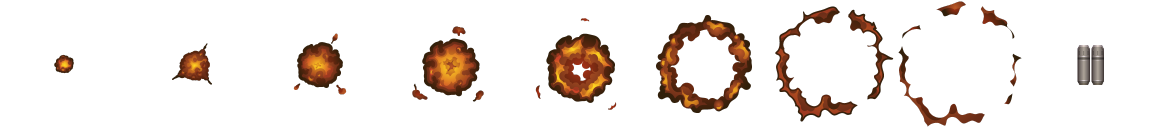
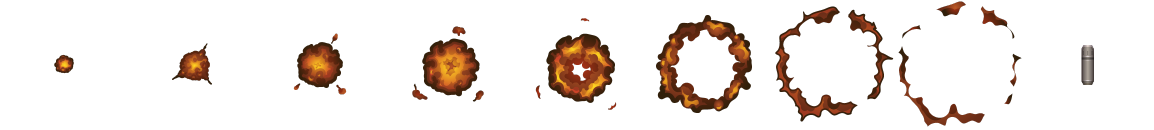
cleaned code a bit and configuered all Bullet Types, removed Flamethrow (changing to particles), next steps: Add Laser, Shotgun and Flamethrower + Clean Code

Changed region(s): [[0.9359, 0.3385, 0.9671, 0.6769]]

diff --git a/public/game/game.js b/public/game/game.js
@@ -36,15 +36,13 @@ function preload (){
 	this.load.spritesheet("Bullet-Mid", "Effects/Bullet-Mid.png", { frameWidth: 128, frameHeight: 128});
 	this.load.spritesheet("Bullet-Big", "Effects/Bullet-Big.png", { frameWidth: 128, frameHeight: 128});
 	this.load.spritesheet("Bullet-Small", "Effects/Bullet-Small.png", { frameWidth: 128, frameHeight: 128});
-	this.load.spritesheet("Double-Bullet", "Effects/Double.png", { frameWidth: 128, frameHeight: 128});
-	this.load.spritesheet("Sniper-Bullet", "Effects/Sniper-Bullet.png", { frameWidth: 128, frameHeight: 128});
-	this.load.spritesheet("Shotgun", "Effects/Shotgun.png", { frameWidth: 128, frameHeight: 128});
+	this.load.spritesheet("Bullet-Double", "Effects/Double.png", { frameWidth: 128, frameHeight: 128});
+	this.load.spritesheet("Bullet-Sniper", "Effects/Sniper.png", { frameWidth: 128, frameHeight: 128});
+	this.load.spritesheet("Bullet-Shotgun", "Effects/Shotgun.png", { frameWidth: 128, frameHeight: 128});
 	this.load.spritesheet("Laser", "Effects/Laser.png", { frameWidth: 128, frameHeight: 128});
-	this.load.spritesheet("Sniper-Bullet", "Effects/Sniper.png", { frameWidth: 128, frameHeight: 128});
 	this.load.spritesheet("Flamethrower", "Effects/Flames.png", { frameWidth: 256, frameHeight: 256});
 	
 	
-
 	this.load.spritesheet("Track_1_A", "Tracks/Track_1_A.png", { frameWidth: 42, frameHeight: 246 });
 	this.load.image("tiles", "tilesExtruded.png")
 	this.load.tilemapTiledJSON("map", "panzerkiste.json");
@@ -55,79 +53,44 @@ function preload (){
 }
 
 function create (){
+	size = (64/256);
+
 	map = this.make.tilemap({key:"map", tileWidth: 32, tileHeight: 32});
 	tileset = map.addTilesetImage("tiles1", "tiles", 32, 32, 1, 2);
 	level = map.createLayer("level", tileset, 0, 0);
 	map.setCollisionByProperty({ collision: true });
-
 	shapes = this.cache.json.get('shapes');
 	addBorders(this);
-	
 
 	pointer = this.input.activePointer;
 	cursors = this.input.keyboard.createCursorKeys();
 	keys = this.input.keyboard.addKeys({ w: 87, a: 65, s: 83 ,d: 68, space: 32, one: 49, two:50, three:51, four:52, five:53, six:54, seven:55, eight:56});
-	size = (64/256);
 
 	projectiles = new Array();
 	counter = 0;
 
-	projectilesBots = new Array();
-	counterBots = new Array();
-
 	tank = new Tank(this, 1000, 400, size, "A", "player");
 	tanks = [new Tank(this, 300, 800, size, "B", "bot1"), new Tank(this, 200, 200, size, "C", "bot2"), new Tank(this, 1500, 1000, size, "D", "bot3")];
-	tanks.forEach(tank => {
-		projectilesBots.push(new Array());
-		counterBots.push(0);
-	})
 
 	this.cameras.main.setBounds(0, 0, map.widthInPixels, map.heightInPixels);
 	this.cameras.main.startFollow(tank);
 	this.cameras.main.zoom = calculateScale(this.sys.game.canvas.height, this.sys.game.canvas.width)*1.5;
-
 }
 
 function update (){
-	if(keys.one.isDown){
-		tank.upgrade(1);
-	} else if(keys.two.isDown){
-		tank.upgrade(2);
-	} else if(keys.three.isDown){
-		tank.upgrade(3);
-	} else if(keys.four.isDown){
-		tank.upgrade(4);
-	} else if(keys.five.isDown){
-		tank.upgrade(5);
-	} else if(keys.six.isDown){
-		tank.upgrade(6);
-	} else if(keys.seven.isDown){
-		tank.upgrade(7);
-	} else if(keys.eight.isDown){
-		tank.upgrade(8);
-		projectiles = [];
-		counter = 0;
-	}
-
-	//player gets updated and player controls are being handled here
-	tankControls(this)
+	upgradeTank();
+	tankControls();
+	shooting(this);
 	tank.update();
 	tank.updateGunAngle(true);
 	
-
 	tanks.forEach( bot => {
 		bot.update();
 		bot.updateGunAngle(false, {x: tank.x, y: tank.y});
 	})
-
-	if(tank.type === 7 && projectiles.length !== 0){
-		projectiles[0].x = tank.getFrontOfGun(1.9).x;
-		projectiles[0].y = tank.getFrontOfGun(1.9).y;
-		projectiles[0].angle = tank.gun.angle;
-	}
 }
 
-function tankControls(game){
+function tankControls(){
 	if ((cursors.left.isDown || keys.a.isDown)&&!(cursors.right.isDown || keys.d.isDown)){
 		if((cursors.down.isDown || keys.s.isDown)&&!(cursors.up.isDown || keys.w.isDown)){
 			tank.rotateRight();
@@ -145,30 +108,31 @@ function tankControls(game){
 	} if ((cursors.down.isDown || keys.s.isDown)&&!(cursors.up.isDown || keys.w.isDown)){
 		tank.moveBackward();
 	}
-	if (tank.type === 0 || tank.type === 1 || tank.type === 2 || tank.type === 4){
-		if ((keys.space.isDown || pointer.isDown) && tank.framecount >= 24 && projectiles.length < 5 && !tank.destroyed){
-			projectiles.push(new Projectile(game, tank.getFrontOfGun().x, tank.getFrontOfGun().y, tank.gun.angle, size, `projectile_${counter}`, this.tank.type, ));
+}
+
+function shooting(game){
+	let number = [5, 1, 7, 4, 0, 10];
+	let framecount = [24, 72, 24, 24, 0, 24];
+	if ((keys.space.isDown || pointer.isDown) && tank.framecount >= framecount[tank.type] && projectiles.length < number[tank.type] && !tank.destroyed){
+		if (tank.type === 0 || tank.type === 1 || tank.type === 2 || tank.type === 3){
+			projectiles.push(new Projectile(game, tank.getFrontOfGun().x, tank.getFrontOfGun().y, tank.gun.angle, size, `projectile_${counter}`, tank.type));
 			counter++;
 			tank.framecount = 0;
-		}
-	} else if (tank.type === 3){
-
-	} else if (tank.type === 5){
-
-	} else if (tank.type === 6){
-
-	} else if (tank.type === 7){
-		if ((keys.space.isDown || pointer.isDown) && !tank.destroyed){
-			if (projectiles.length === 0){
-				projectiles.push(new Projectile(game, tank.getFrontOfGun(1.9).x, tank.getFrontOfGun(1.9).y, tank.gun.angle, size, `projectile_${counter}`, this.tank.type, 1));
-				console.log(projectiles)
+		} else if (tank.type === 4){
+	
+		} else if (tank.type === 5){
+			for (i = -1; i < 2; i+=2){
+				projectiles.push(new Projectile(game, tank.getFrontOfGun(1,i*5).x, tank.getFrontOfGun(1,i*5).y, tank.gun.angle+i*3, size, `projectile_${counter}`, tank.type));
+				counter++;
 			}
-		} else {
-			if (projectiles.length !== 0){
-				projectiles[0].destroy();
-			}
+			tank.framecount = 0;
+		} else if (tank.type === 6){
+	
+		} else if (tank.type === 7){
+	
 		}
 	}
+
 	for (i = 0; i < projectiles.length; i++){
 		if(!projectiles[i].active){
 			projectiles.splice(i,1);
@@ -197,4 +161,24 @@ function addBorders(game){
 	}
 	border = game.matter.add.sprite(963, 610, "transparent", 0, {shape: shapesResized.level});
 	border.setStatic(true);
+}
+
+function upgradeTank(){
+	if(keys.one.isDown){
+		tank.upgrade(1);
+	} else if(keys.two.isDown){
+		tank.upgrade(2);
+	} else if(keys.three.isDown){
+		tank.upgrade(3);
+	} else if(keys.four.isDown){
+		tank.upgrade(4);
+	} else if(keys.five.isDown){
+		tank.upgrade(5);
+	} else if(keys.six.isDown){
+		tank.upgrade(6);
+	} else if(keys.seven.isDown){
+		tank.upgrade(7);
+	} else if(keys.eight.isDown){
+		tank.upgrade(8);
+	}
 }

diff --git a/public/game/objects/projectile.js b/public/game/objects/projectile.js
@@ -1,70 +1,31 @@
 class Projectile extends Phaser.Physics.Matter.Sprite {
-    constructor(game, x, y, angle, size, label, type, group=0) {
-        let images = ["Bullet-Mid", "Sniper-Bullet", "Bullet-Big", "Bullet-Small", "Double-Bullet", "Shotgun", "Laser", "Flamethrower"];
-        super(game.matter.world, x, y, images[type], 0, {scale: {x:1, y: 1}, collisionFilter: {group: group}});
-        game.add.existing(this);
-        if(type === 0 || type === 1 || type === 2 || type === 4){
-            this.explosion = this.anims.create({key:"explosion", frames: this.anims.generateFrameNumbers(images[type], {start:0, end: 7}), frameRate:24, repeat: 0});
-            this.setFrame(8);
-            this.setBody({type:"rectangle", width: 15, height:28}, {label: label, chamfer: {radius: [5, 5, 5, 5] } });
-            this.bounces = 0;
-            this.setOrigin(0.5, 0.5);
-            this.angle = angle;
-            this.setScale(size*1.6, size*1.6);
-            this.setVelocityX(Math.sin(this.angle*Math.PI/180)*size*15);
-            this.setVelocityY(-Math.cos(this.angle*Math.PI/180)*size*15);
-            this.setFrictionAir(0);
-            this.setBounce(1);
-            this.setFixedRotation();
-            this.bulletCollision(this);
-        } else if(type === 3){
-
-        } else if(type === 5){
-
-        } else if(type === 6){
-
-        } else if(type === 7){
-            console.log("hello")
-            this.setBody({type:"rectangle", width: 25, height:200}, {label: label, chamfer: {radius: [15, 15, 15, 15] } });
-            this.setOrigin(0.5, 0.5);
-            this.angle = angle;
-            this.setScale(size*1.6, size*1.6);
-            this.fire = this.anims.create({key:"fire", frames: this.anims.generateFrameNumbers(images[type], {start:0, end: 7}), frameRate:24, repeat: 0});
-            this.fireHold = this.anims.create({key:"fireHold", frames: this.anims.generateFrameNumbers(images[type], {start:3, end: 7}), frameRate:24, repeat: -1});
-            this.play("fire");
-            window.setTimeout(() => {
-                this.play("fireHold");
-            },334)
-            this.destroyed = false;
-           
-        }
-    }
-
-    fire(){
-
-        clearTimeout(this.destroyTimeout);
-
-        this.body.reset(x, y);
+    constructor(game, x, y, angle, size, label, type) {
+        let tankTypeData = [{bounces: 2, velocity: 1, damage: 1, number:1, width:15, height:28, chamfer: [5,5,5,5]},
+            {bounces: 0, velocity: 2.5, damage: 2, width:15, height:48, chamfer:[5,5,5,5]},
+            {bounces: 5, velocity: 1, damage: 2, width:25, height:48, chamfer:[8,8,8,8]},
+            {bounces: 2, velocity: 1, damage: 1, width:10, height:18, chamfer:[2,2,2,2]},
+            {},
+            {bounces: 2, velocity: 1, damage: 1, width:17, height:30, chamfer:[5,5,5,5]}];
+        let images = ["Bullet-Mid", "Bullet-Sniper", "Bullet-Big", "Bullet-Small", "-----", "Bullet-Double"];
         
+        super(game.matter.world, x, y, images[type]);
+        game.add.existing(this);
 
-        this.setActive(true);
-        this.setVisible(true);
+        this.explosion = this.anims.create({key:"explosion", frames: this.anims.generateFrameNumbers(images[type], {start:0, end: 7}), frameRate:24, repeat: 0});
+        this.setFrame(8);
+        this.bounces = 0;
 
-        this.destroyTimeout = setTimeout( () => {
-            this.destroy();
-        }, 8000);
-    }
+        this.setBody({type:"rectangle", width: tankTypeData[type].width, height: tankTypeData[type].height}, {label: label, chamfer: {radius: tankTypeData[type].chamfer } });
+        this.setOrigin(0.5, 0.5);
+        this.angle = angle;
+        this.setVelocityX(Math.sin(this.angle*Math.PI/180)*size*15*tankTypeData[type].velocity);
+        this.setVelocityY(-Math.cos(this.angle*Math.PI/180)*size*15*tankTypeData[type].velocity);
+        this.setScale(size*1.6, size*1.6);
+        this.setFrictionAir(0);
+        this.setBounce(1);
+        this.setFixedRotation();
 
-    reflect(){
-        if(this.body.blocked.right || this.body.blocked.left){
-            this.angle *= -1;
-        } else {
-            this.angle *= -1;
-            this.angle += 180;
-        }
-
-        this.setVelocityX(Math.sin(this.angle*Math.PI/180)*size*15);
-        this.setVelocityY(-Math.cos(this.angle*Math.PI/180)*size*15);
+        this.bulletCollision(this, tankTypeData[type].bounces, tankTypeData[type].velocity, tankTypeData[type].damage);
     }
 
     explode(){
@@ -76,7 +37,7 @@ class Projectile extends Phaser.Physics.Matter.Sprite {
         },334)
     }
 
-    bulletCollision(me){
+    bulletCollision(me, bouncesMax, velocity, damage){
         me.setOnCollide( (data) => {
             console.log(data)
             //console.log(data.collision.normal)
@@ -95,17 +56,17 @@ class Projectile extends Phaser.Physics.Matter.Sprite {
                 if(vector.y === -1 || vector.y === 1){
                     me.angle += 180;
                 }
-                me.setVelocityX(Math.sin(me.angle*Math.PI/180)*size*15);
-                me.setVelocityY(-Math.cos(me.angle*Math.PI/180)*size*15);
-                if(me.bounces === 2){
+                me.setVelocityX(Math.sin(me.angle*Math.PI/180)*size*15*velocity);
+                me.setVelocityY(-Math.cos(me.angle*Math.PI/180)*size*15*velocity);
+                if(me.bounces === bouncesMax){
                     me.explode();
                 }
                 me.bounces++;
             } else if (body.label.slice(0, -1) === "bot" || body.label === "player"){
                 if(body.health == null){
-                    body.health = 4;
+                    body.health = 5 -damage;
                 } else {
-                    body.health--;
+                    body.health -= damage;
                 }
                 me.explode();
             } else {

diff --git a/public/game/objects/tank.js b/public/game/objects/tank.js
@@ -92,7 +92,7 @@ class Tank {
             }
             this.healthbar.setFrame(this.hull.body.health-1);
             this.healthOld = this.hull.body.health;
-            if(this.hull.body.health === 0){
+            if(this.hull.body.health <= 0){
                 this.destroy();
                 this.destroyed = true;
             }
@@ -172,8 +172,8 @@ class Tank {
     }
 
     //called when fireing a bullet
-    getFrontOfGun(factor = 1){
-        return {x: this.gun.x + Math.sin(this.gun.angle*Math.PI/180)*200*this.size*factor, y: this.gun.y - Math.cos(this.gun.angle*Math.PI/180)*200*this.size*factor}
+    getFrontOfGun(factor = 1, offset = 0){
+        return {x: this.gun.x + Math.sin((this.gun.angle+offset)*Math.PI/180)*200*this.size*factor, y: this.gun.y - Math.cos((this.gun.angle+offset)*Math.PI/180)*200*this.size*factor}
     }
 
     //reseting core parameters of tankparts to those of hull and adding the right offset

diff --git a/public/game/objects/track.js b/public/game/objects/track.js
@@ -20,7 +20,7 @@ class Track extends Phaser.GameObjects.Sprite {
             scale: 0.2,
             quantity: 1,
             frequency: 10,
-            lifespan: {max: 800, min: 500},
+            lifespan: {max: 800, min: 50},
             alpha: { start: 0.5, end: 0 }
         });
 
